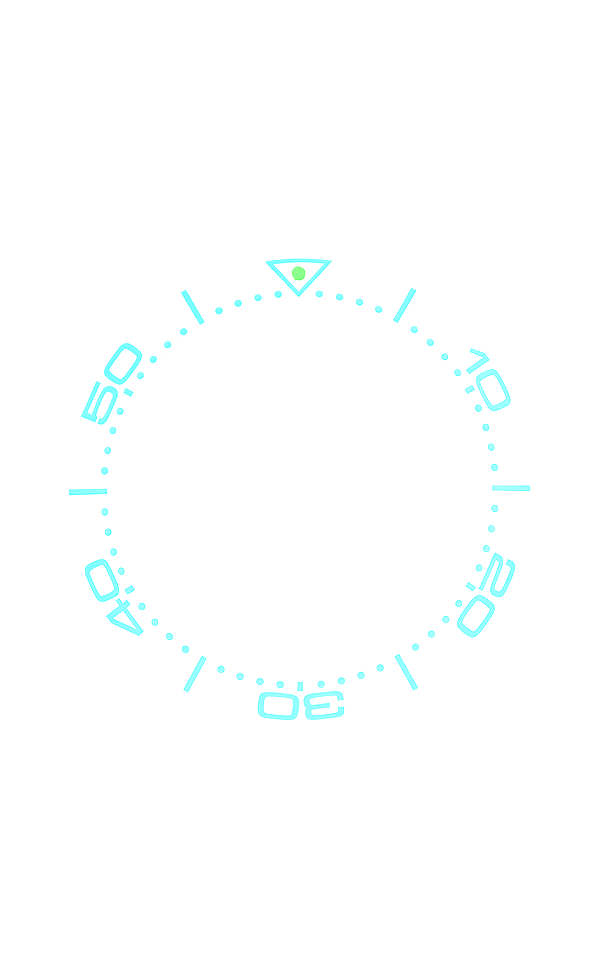
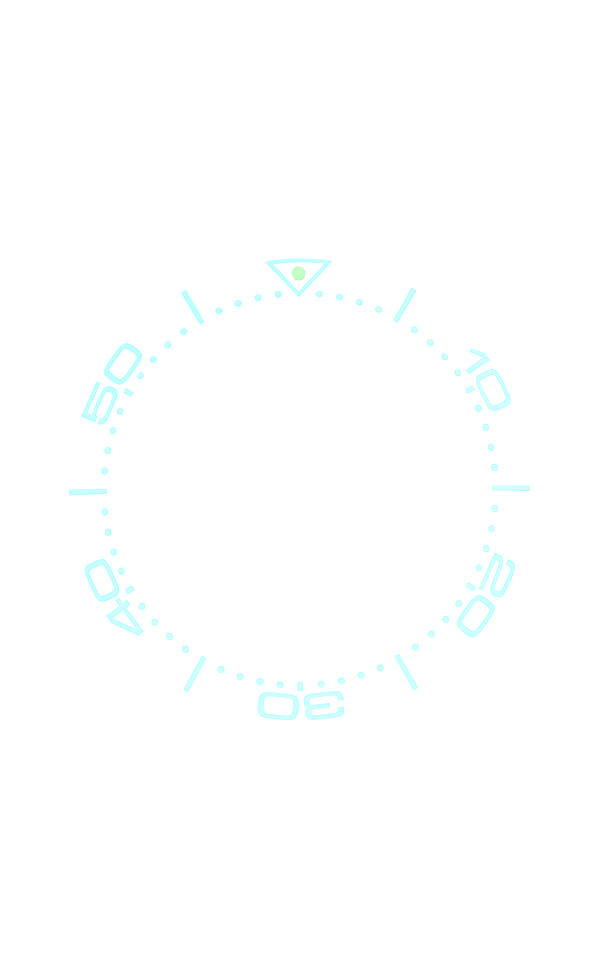
Lume image improvements

diff --git a/js/draw.js b/js/draw.js
@@ -145,6 +145,18 @@ function watchSelect() {
 		secondLume(watch);
 		analogueTime(166.66667);//Beat rate goes in here
 	}
+	else if (watch == "seagull") {
+		watchcontainer(watch);
+		chronoPusherStart(watch, 0, 0, 50, 90); //Offset percentage: top, right, bottom, left
+		chronoPusherReset(watch, 45, 0, 0, 90); //Offset percentage: top, right, bottom, left
+		face(watch);
+		hour(watch);
+		minute(watch);
+		second(watch, 0, 38, 1, 0); //Offset percentage: top, right, bottom, left
+		chronoMinute(watch, 0, -38, 1, 0);//Offset percentage: top, right, bottom, left
+		chronoSecond(watch);
+		analogueTime(166.66667);//Beat rate goes in here
+	}
 	else if (watch == "seiko5") {
 		watchcontainer(watch);
 		date(watch);
@@ -244,21 +256,9 @@ function watchSelect() {
 		minuteLume(watch);
 		second(watch);
 		secondLume(watch);
-		bezel(watch, 120);//Number of clicks per rotation
+		bezel(watch, 60);//Number of clicks per rotation
 		bezelLume(watch);
 		analogueTime(125, 22, 3);//Beat rate, hour date starts changing, hour day ends changing
-	}
-	else if (watch == "seagull") {
-		watchcontainer(watch);
-		chronoPusherStart(watch, 0, 0, 50, 90); //Offset percentage: top, right, bottom, left
-		chronoPusherReset(watch, 45, 0, 0, 90); //Offset percentage: top, right, bottom, left
-		face(watch);
-		hour(watch);
-		minute(watch);
-		second(watch, 0, 38, 1, 0); //Offset percentage: top, right, bottom, left
-		chronoMinute(watch, 0, -38, 1, 0);
-		chronoSecond(watch);
-		analogueTime(166.66667);//Beat rate goes in here
 	}
 };
 

diff --git a/index.htm b/index.htm
@@ -17,6 +17,7 @@
 			<option value="westerland">Laco Westerland (A-Uhr)</option>
 			<option value="dortmund">Laco Dortmund (B-Uhr)</option>
 			<option value="khaki">Hamilton Khaki Field Mechanical</option>
+			<option value="seagull">Seagull 1963</option>
 			<option value="seiko5">Seiko 5 Sports SBSA045</option>
 			<option value="cocktail">Seiko Presage Cocktail Time</option>
 			<option value="grandseiko">Grand Seiko SBGD201J</option>
@@ -26,7 +27,6 @@
 			<option value="fliegerb">Flieger B-Uhr</option>
 			<option value="marathonmod">Marathon MSAR Auto (Max Lume)</option>
 			<option value="marathonmod2">Generic Tacticool Watch</option>
-			<option value="seagull">Seagull 1963</option>
 		</select>
 	</div>
 	<div><button type="button" id="fullscreenButton" onclick="fullscreen()">Toggle Fullscreen</button></div>
